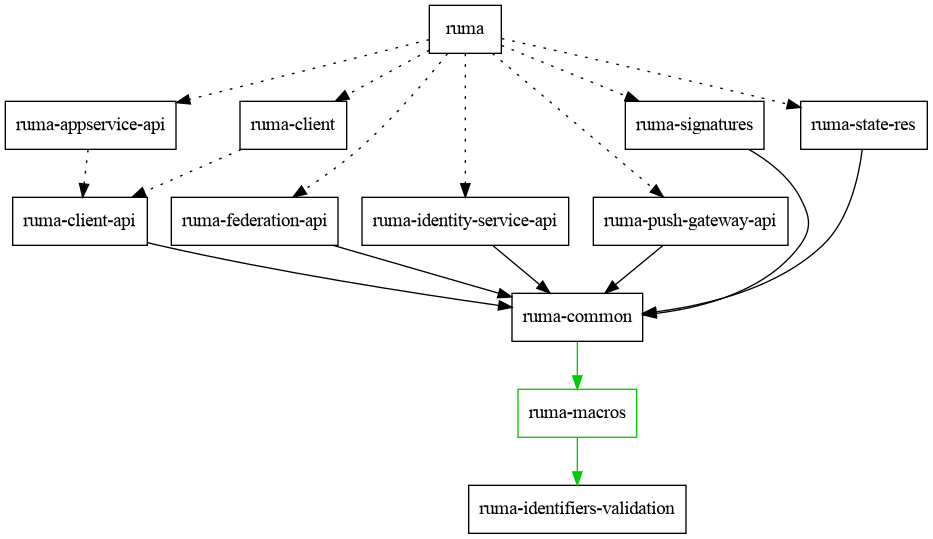
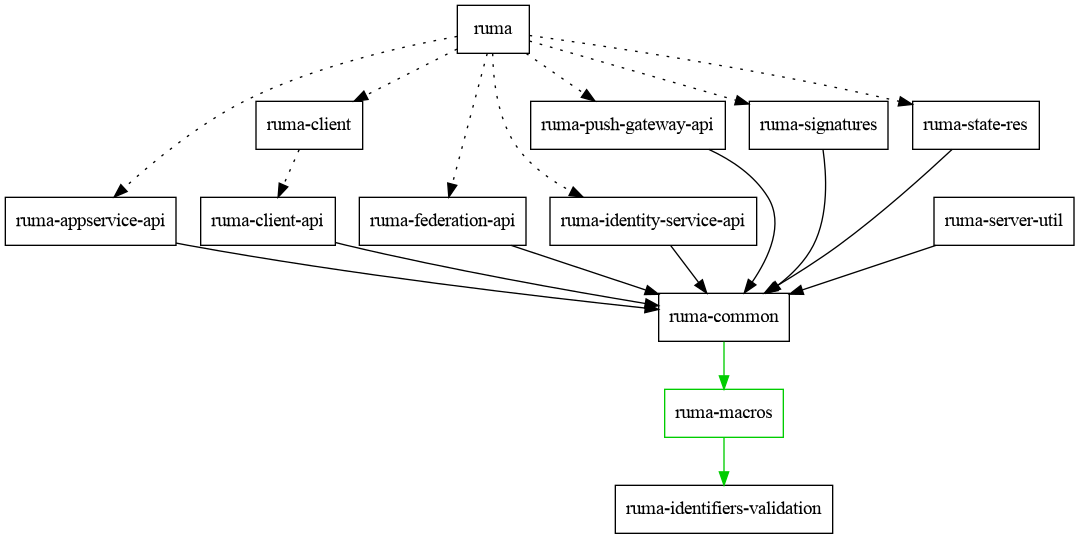
Update workspace dependency graph

diff --git a/contrib/how_to_release.md b/contrib/how_to_release.md
@@ -29,4 +29,4 @@ all dependents.
 
 ![crate dependencies](./workspace_deps.png)
 
-<small><code>cargo depgraph --all-features --exclude anyhow,assign,async-stream,async-trait,base64,bytes,criterion,ed25519-dalek,either,form_urlencoded,futures-core,futures-lite,getrandom,joke_bot,js_int,js_option,hello_isahc,hello_world,http,hyper,hyper-rustls,hyper-tls,indexmap,indoc,isahc,itertools,itoa,maplit,message_log,percent-encoding,pkcs8,proc-macro2,proc-macro-crate,pulldown-cmark,quote,rand,reqwest,ryu,serde,serde_json,sha2,syn,thiserror,tokio,tokio-stream,tracing,url,uuid,wildmatch,xflags,xshell,xtask --dedup-transitive-deps | dot -Tpng > contrib/workspace_deps.png</code></small>
+<small><code>cargo depgraph --all-features --dedup-transitive-deps --workspace-only --exclude hello_isahc,hello_world,joke_bot,message_log,xtask | dot -Tpng > contrib/workspace_deps.png</code></small>
